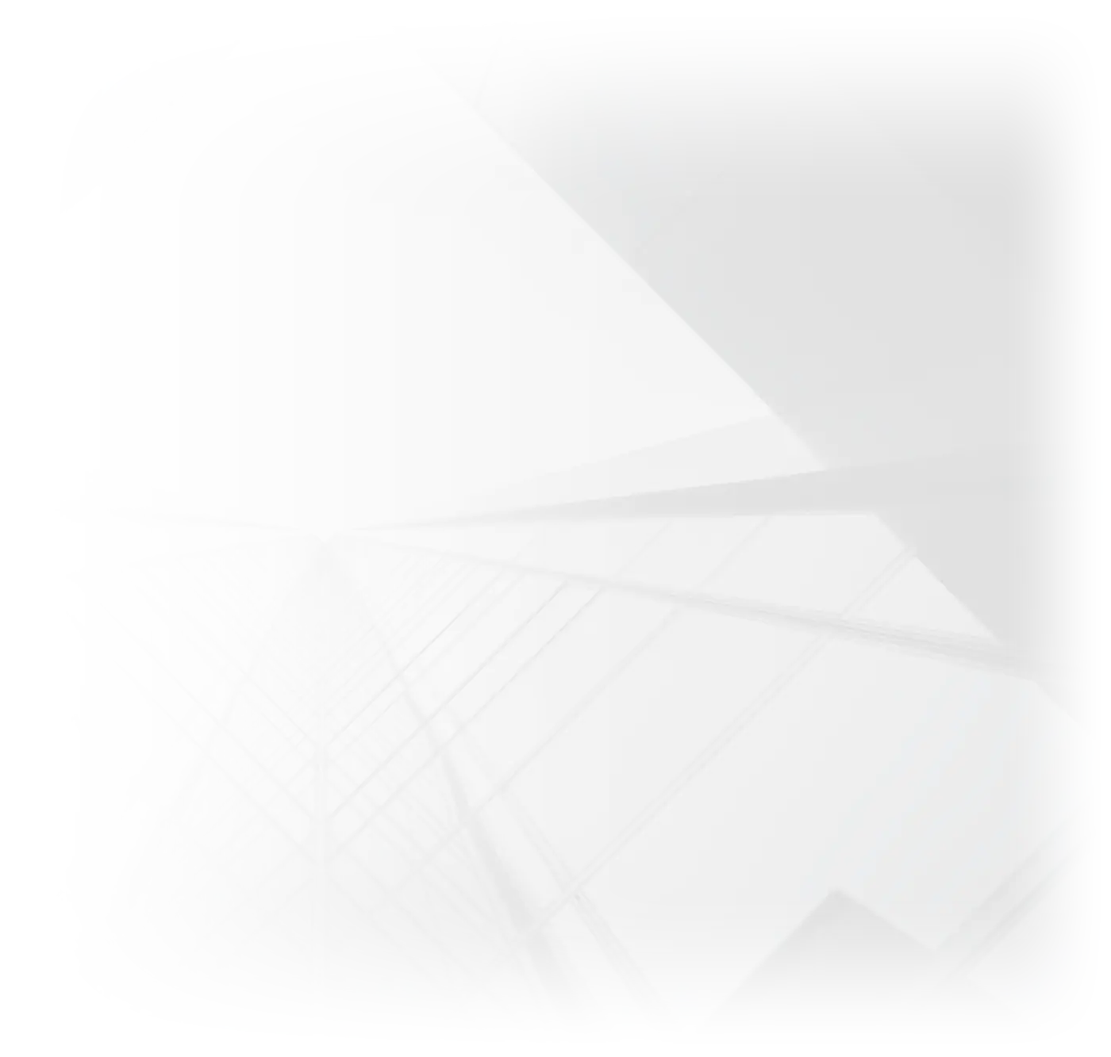
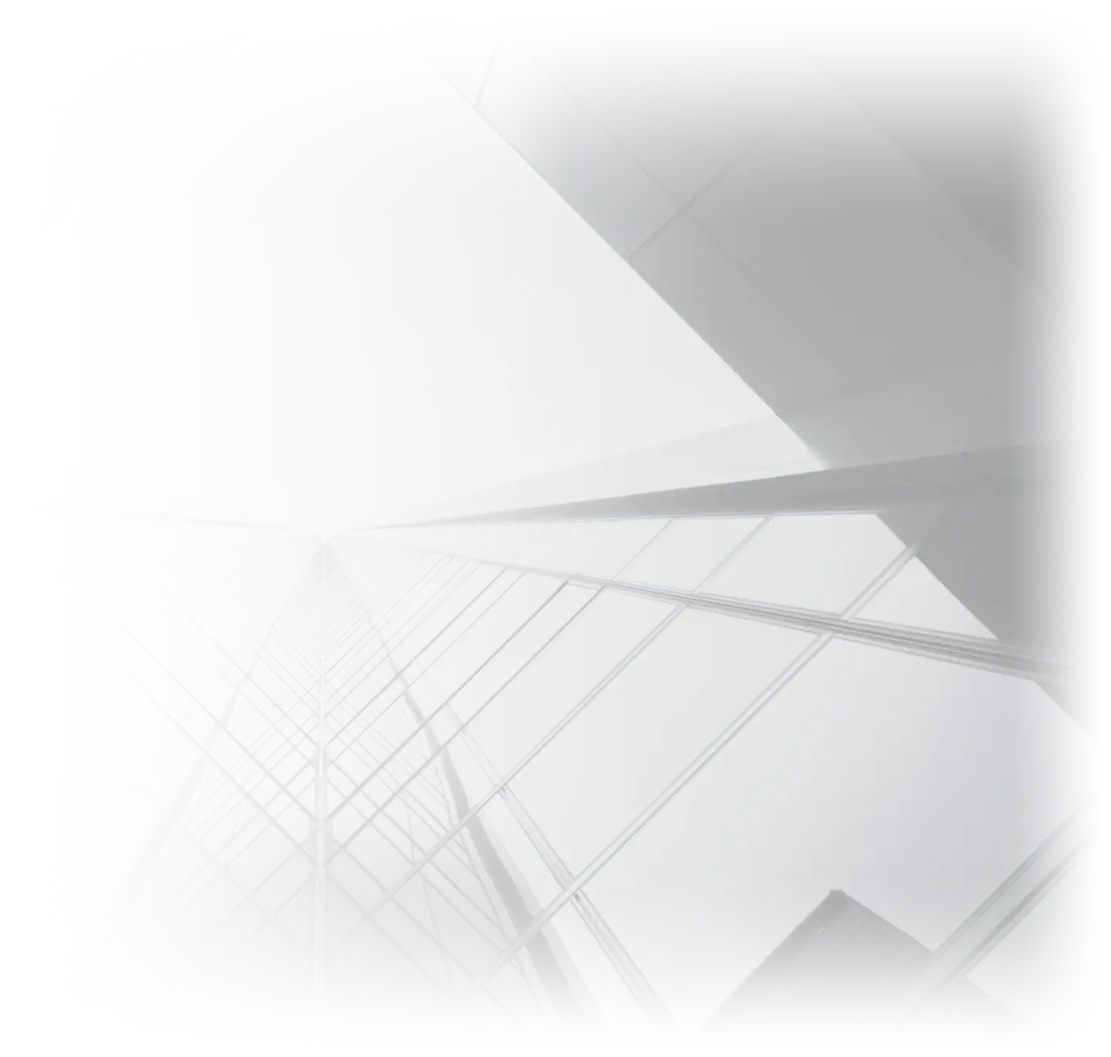
D40 を全体へ: トップは D40（一文を縦の中ほど、見え方40の写真、名刺をライト・ペーパーでなじませる）。入口の帯4つと入口カードを、白い字の全面写真から、地の色＋文字が主役＋右に薄い写真（見え方28、モード別）に。読み物は写真なし。グラフの写真をやめる

diff --git a/index.html b/index.html
@@ -51,7 +51,7 @@
 <p class="mc-hello">はじめまして。</p>
 </div></div></div></section></div>
 <section class="sec gut" data-io><div class="sh rv"><h2><span class="en" lang="en">What I Simplify</span><span class="ja">シンプルにするもの</span></h2></div><p class="simple-l rv"><span class="nb">減らすのは、</span><span class="nb">作業だけでは</span><span class="nb">ありません。</span></p><ol class="simple3"><li class="rv" style="--i:0"><b>判断</b><p class="h"><span class="nb">何から手をつけるか、</span><span class="nb">迷う時間を</span><span class="nb">減らします。</span></p><p class="f"><span class="nb">課題を優先度つきで整理し、</span><span class="nb">対応方針まで</span><span class="nb">文書でお示しします。</span></p></li><li class="rv" style="--i:1"><b>説明</b><p class="h"><span class="nb">監査法人や</span><span class="nb">取締役会への説明の</span><span class="nb">手間を、軽くします。</span></p><p class="f"><span class="nb">判断の根拠を残し、</span><span class="nb">そのまま説明できる形に</span><span class="nb">整えます。</span></p></li><li class="rv" style="--i:2"><b>不安</b><p class="h"><span class="nb">先が見えない</span><span class="nb">不安を、</span><span class="nb">減らします。</span></p><p class="f"><span class="nb">範囲・費用・稼働日数は</span><span class="nb">着手前にお示しします。</span><span class="nb">最初から最後まで、</span><span class="nb">代表の佐藤が担当します。</span></p></li></ol></section>
-<section class="sec gut" data-io><div class="sh rv"><h2><span class="en" lang="en">Where I Can Help</span><span class="ja">ご相談いただけること</span></h2></div><div class="duo2"><a class="rv" style="--i:0" href="auditor.html"><figure><img src="img/h-board.jpg" width="1400" height="788" alt="誰もいない役員会議室" loading="lazy" decoding="async"></figure><span class="en" lang="en">Outside Auditor</span><span class="ja">社外監査役</span><span class="tg">上場企業・上場準備企業<span class="vh">。</span></span><span class="ds">独立した立場から、会計と内部統制の経験を、取締役会・監査役会で。</span><i class="ring" aria-hidden="true"></i></a><a class="rv" style="--i:1" href="services.html"><figure><img src="img/h-work.jpg" width="1400" height="788" alt="手描きのグラフと、ペン" loading="lazy" decoding="async"></figure><span class="en" lang="en">Services</span><span class="ja">実務支援</span><span class="tg">決算支援／内部統制・J-SOX／IPO準備支援／不正調査<span class="vh">。</span></span><span class="ds">複雑な業務を整理し、実務で機能する仕組みへ。</span><i class="ring" aria-hidden="true"></i></a></div></section>
+<section class="sec gut" data-io><div class="sh rv"><h2><span class="en" lang="en">Where I Can Help</span><span class="ja">ご相談いただけること</span></h2></div><div class="duo2"><a class="rv" style="--i:0" href="auditor.html"><figure class="dph ph-auditor" aria-hidden="true"></figure><span class="en" lang="en">Outside Auditor</span><span class="ja">社外監査役</span><span class="tg">上場企業・上場準備企業<span class="vh">。</span></span><span class="ds">独立した立場から、会計と内部統制の経験を、取締役会・監査役会で。</span><i class="ring" aria-hidden="true"></i></a><a class="rv" style="--i:1" href="services.html"><figure class="dph ph-services" aria-hidden="true"></figure><span class="en" lang="en">Services</span><span class="ja">実務支援</span><span class="tg">決算支援／内部統制・J-SOX／IPO準備支援／不正調査<span class="vh">。</span></span><span class="ds">複雑な業務を整理し、実務で機能する仕組みへ。</span><i class="ring" aria-hidden="true"></i></a></div></section>
 <section class="sec gut" data-io><div class="sh rv"><h2><span class="en" lang="en">Process</span><span class="ja">ご相談から着手まで</span></h2></div><ol class="flow"><li class="rv" style="--i:0"><b lang="en">01</b><h3>初回相談</h3><p class="pr">無料</p><p>30〜60分・オンライン。現状をお伺いします。</p></li><li class="rv" style="--i:1"><b lang="en">02</b><h3>診断パッケージ</h3><p class="pr">10万円〜<small>（税別・目安）</small></p><p>優先度をつけた課題の一覧と対応方針を文書で提示し、報告会（1時間）で説明します。</p></li><li class="rv" style="--i:2"><b lang="en">03</b><h3>継続支援</h3><p class="pr">10万円〜<small>／人日（税別・目安）</small></p><p>診断結果をもとに、必要な範囲だけを設計します。</p></li></ol><div class="flow-nt rv"><p>診断のみのご依頼も承ります。継続支援に進む場合、診断料は初月報酬に充当します。</p><p class="nt">診断パッケージの対象は、内部統制・J-SOXとIPO準備支援です。会社の規模や論点の数によって範囲が変わるため、範囲と費用は着手前にお示しします。そのほかの業務は、内容に応じて、初回相談の後にお見積りいたします。いずれも現時点の目安です。</p><div class="btns"><a class="ln" href="services.html#fees">費用の一覧<i class="go" aria-hidden="true"></i></a><a class="ln" href="services.html#approach">仕事の進め方と責任の範囲<i class="go" aria-hidden="true"></i></a><a class="ln" href="about.html#profile">担当する代表のプロフィール<i class="go" aria-hidden="true"></i></a></div></div></section>
 <section class="sec gut top-news" data-io><div class="sh rv"><h2><span class="en" lang="en">Journal</span><span class="ja">読み物</span></h2><a class="more" href="journal.html">読み物の一覧<i class="go" aria-hidden="true"></i></a></div><div class="news nt0"><a class="rv" style="--i:0" href="jsox-guide.html"><span><b class="ph">J-SOX対応の進め方</b><small>はじめてJ-SOX（内部統制報告制度）に取り組む会社へ。J-SOXとは何か、誰が何をするのか、進め方（現状診断、3点セットの文書化、評価・テスト、運用の改善、監査法人対応）、2024年4月からの改訂、つまずきやすいところと進めるうえでの工夫。監査法人でJ-SOX評価を担当した京都の公認会計士が、順を追って解説します。</small></span><i class="go" aria-hidden="true"></i></a><a class="rv" style="--i:1" href="jsox-outsourcing.html"><span><b class="ph">内部統制の支援を、外に頼むとき</b><small>内部統制（J-SOX）の支援を外に頼むか迷っている会社へ。外に頼めることと会社に残ること、頼む前に決めておくこと、頼み方と費用の目安、支援が終わったあとに社内に残すもの。京都の公認会計士が、依頼する側の目線で整理しました。</small></span><i class="go" aria-hidden="true"></i></a><a class="rv" style="--i:2" href="ipo-audit-prep.html"><span><b class="ph">上場準備で、監査を受ける前に</b><small>上場（IPO）を考え始めた会社へ。上場準備の会計監査とショートレビュー、監査を受ける前に確かめておくこと、上場審査から逆算した工程、早い時期にしておくこと。日本公認会計士協会のガイドブックが挙げる指摘の例とあわせて、京都の公認会計士が紹介します。</small></span><i class="go" aria-hidden="true"></i></a><a class="rv" style="--i:3" href="ipo-internal-control.html"><span><b class="ph">上場準備の内部統制は、どこから始めるか</b><small>上場準備の内部統制は、どこから手を付け、いつまでに何を終えればよいのか。京都の公認会計士・税理士 佐藤健司が、段取りの考え方を問いと答えの形で解説します。</small></span><i class="go" aria-hidden="true"></i></a></div></section>
 <div class="gut"><section class="cta" data-io><div><p class="state rv"><span class="nb">まずは</span><span class="nb">ご相談ください。</span></p><p class="sm2 rv" style="--i:1">「一度、話を聞いてほしい」という一文で構いません。</p><ul class="trust rv" style="--i:2"><li>初回 30〜60分・オンライン・無料</li><li>通常、3営業日以内にご返信</li><li>最初から最後まで、代表が担当</li></ul></div><a class="ob rv" style="--i:3" href="contact.html">お問い合わせ</a></section></div>

diff --git a/services.html b/services.html
@@ -40,7 +40,7 @@
 <a class="sbar" href="contact.html" aria-label="お問い合わせ（初回 30〜60分・オンライン・無料）"><b>お問い合わせ</b><span>初回 30〜60分・オンライン・無料</span><i class="go" aria-hidden="true"></i></a>
 <main id="main" tabindex="-1">
 <div class="gut"><nav class="crumb" aria-label="いまの位置"><ol><li><a href="./">ホーム</a></li><li><span aria-current="page">実務支援</span></li></ol></nav></div>
-<div class="gut"><figure class="kv kvh" data-io><img src="img/h-work.jpg" width="1400" height="788" alt="手描きのグラフと、ペン" decoding="async" fetchpriority="high"><figcaption class="cap"><h1 lang="en"><span class="l"><span>Services</span></span><span class="vh" lang="ja">（実務支援）</span></h1><span class="sub rv">実務支援</span></figcaption></figure></div>
+<div class="gut"><figure class="kv kvh ph-services" data-io><figcaption class="cap"><h1 lang="en"><span class="l"><span>Services</span></span><span class="vh" lang="ja">（実務支援）</span></h1><span class="sub rv">実務支援</span></figcaption></figure></div>
 <section class="sec gut" data-io><div class="two"><div class="stk"><p class="state rv"><span class="nb">複雑な業務を</span><span class="nb">整理し、</span><span class="nb">実務で機能する</span><span class="nb">仕組みへ。</span></p></div><div><p class="lead rv">会計・監査の専門性とテクノロジーを組み合わせ、内部統制、経理業務、監査対応の課題を、設計から運用まで一貫して支援します。作業を減らすだけでなく、何を優先し、どう説明するかに迷わない状態をつくります。</p></div></div></section>
 <section class="sec gut" data-io><h2 class="jh2 rv"><span class="jt">業務の地図</span><span class="je" lang="en">Service Map</span></h2><figure class="smap" data-io role="group" aria-label="業務の地図。中心に代表の佐藤健司、内側に主な支援四つ、外側にそのほかの支援八つ"><svg class="full" viewBox="-170 -10 1140 820"><circle class="orb o1" cx="400" cy="400" r="190" pathLength="1"/><circle class="orb o2" cx="400" cy="400" r="330" pathLength="1"/><a href="closing-improvement.html" class="nd core" style="--i:0"><circle cx="265.6" cy="265.6" r="74"/><text text-anchor="middle"><tspan x="265.6" y="273.6">決算支援</tspan></text></a><a href="jsox-ipo.html" class="nd core" style="--i:1"><circle cx="534.4" cy="265.6" r="74"/><text text-anchor="middle"><tspan x="534.4" y="259.6">内部統制・</tspan><tspan x="534.4" y="289.6">J-SOX</tspan></text></a><a href="jsox-ipo.html" class="nd core" style="--i:2"><circle cx="534.4" cy="534.4" r="74"/><text text-anchor="middle"><tspan x="534.4" y="542.4">IPO準備支援</tspan></text></a><a href="fraud-investigation.html" class="nd core" style="--i:3"><circle cx="265.6" cy="534.4" r="74"/><text text-anchor="middle"><tspan x="265.6" y="528.4">不正調査・</tspan><tspan x="265.6" y="558.4">不正対応</tspan></text></a><a href="contact.html#ask-lease" class="nd sub" style="--i:4"><circle cx="273.7" cy="95.1" r="7"/><text x="257.6" y="64.3" text-anchor="end">新リース会計基準</text></a><a href="contact.html#ask-dd" class="nd sub" style="--i:5"><circle cx="526.3" cy="95.1" r="7"/><text x="542.4" y="64.3" text-anchor="start">M&Aの財務調査</text></a><a href="ai.html" class="nd sub" style="--i:6"><circle cx="704.9" cy="273.7" r="7"/><text x="743.7" y="265.6" text-anchor="start">会計システム・AI</text></a><a href="contact.html#ask-cost" class="nd sub" style="--i:7"><circle cx="704.9" cy="526.3" r="7"/><text x="743.7" y="550.4" text-anchor="start">原価計算・管理会計</text></a><a href="internal-audit.html" class="nd sub" style="--i:8"><circle cx="526.3" cy="704.9" r="7"/><text x="542.4" y="751.7" text-anchor="start">内部監査</text></a><a href="contact.html#ask-rules" class="nd sub" style="--i:9"><circle cx="273.7" cy="704.9" r="7"/><text x="257.6" y="751.7" text-anchor="end">社内規程</text></a><a href="outside-cfo.html" class="nd sub" style="--i:10"><circle cx="95.1" cy="526.3" r="7"/><text x="56.3" y="550.4" text-anchor="end">社外CFO</text></a><a href="aup.html" class="nd sub" style="--i:11"><circle cx="95.1" cy="273.7" r="7"/><text x="56.3" y="265.6" text-anchor="end">AUP</text></a></svg><svg class="lite" viewBox="170 170 460 460" aria-hidden="true"><circle class="orb o1" cx="400" cy="400" r="190" pathLength="1"/><a href="closing-improvement.html" class="nd core" style="--i:0"><circle cx="265.6" cy="265.6" r="74"/><text text-anchor="middle"><tspan x="265.6" y="273.6">決算支援</tspan></text></a><a href="jsox-ipo.html" class="nd core" style="--i:1"><circle cx="534.4" cy="265.6" r="74"/><text text-anchor="middle"><tspan x="534.4" y="259.6">内部統制・</tspan><tspan x="534.4" y="289.6">J-SOX</tspan></text></a><a href="jsox-ipo.html" class="nd core" style="--i:2"><circle cx="534.4" cy="534.4" r="74"/><text text-anchor="middle"><tspan x="534.4" y="542.4">IPO準備支援</tspan></text></a><a href="fraud-investigation.html" class="nd core" style="--i:3"><circle cx="265.6" cy="534.4" r="74"/><text text-anchor="middle"><tspan x="265.6" y="528.4">不正調査・</tspan><tspan x="265.6" y="558.4">不正対応</tspan></text></a></svg><div class="ctr" aria-hidden="true"><span class="km"><span class="n" lang="en">Kenji Sato</span><span class="j">佐藤健司公認会計士事務所</span></span></div></figure></section>
 <section class="sec gut" data-io><h2 class="jh2 rv"><span class="jt">主な支援</span><span class="je" lang="en">Core Services</span></h2><p class="nt rv" style="margin-bottom:40px">中心にあるのは、会計・監査・内部統制の専門的な判断です。決算、上場準備、不正への対応は、その応用です。</p><div class="pans four"><a class="pan rv" style="--i:0" href="closing-improvement.html"><i>01</i><b class="ph">決算支援</b><p class="iss">Excel作業の属人化、転記ミス、資料回収の遅れ。</p><p class="goal">正確さと効率を両立した業務運営。</p><span class="who">経理・管理部門</span><i class="go" aria-hidden="true"></i></a><a class="pan rv" style="--i:1" href="jsox-ipo.html"><i>02</i><b class="ph">内部統制・J-SOX</b><p class="iss">文書と実務が一致しない。運用の負荷が高い。</p><p class="goal">実務に適合し、継続して運用できる内部統制。</p><span class="who">上場企業、上場準備企業</span><i class="go" aria-hidden="true"></i></a><a class="pan rv" style="--i:2" href="jsox-ipo.html"><i>03</i><b class="ph">IPO準備支援</b><p class="iss">上場準備のタスクが多すぎて、優先順位がつけられない。</p><p class="goal">現在の人員を起点にした、開示に耐える体制。</p><span class="who">上場を検討・準備している会社</span><i class="go" aria-hidden="true"></i></a><a class="pan rv" style="--i:3" href="fraud-investigation.html"><i>04</i><b class="ph">不正調査・不正対応</b><p class="iss">不正が見つかり、ほかに同じ問題がないかの点検と、再発防止を同時に求められている。</p><p class="goal">原因をふさぎ、外部に説明できる状態。</p><span class="who">不正や会計上の疑義が見つかった会社</span><i class="go" aria-hidden="true"></i></a></div></section>

diff --git a/about.html b/about.html
@@ -40,7 +40,7 @@
 <a class="sbar" href="contact.html" aria-label="お問い合わせ（初回 30〜60分・オンライン・無料）"><b>お問い合わせ</b><span>初回 30〜60分・オンライン・無料</span><i class="go" aria-hidden="true"></i></a>
 <main id="main" tabindex="-1">
 <div class="gut"><nav class="crumb" aria-label="いまの位置"><ol><li><a href="./">ホーム</a></li><li><span aria-current="page">事務所について</span></li></ol></nav></div>
-<div class="gut"><figure class="kv kvh" data-io><img src="img/h-structure.jpg" width="1400" height="788" alt="すべての線が一点に集まる高層建築" decoding="async" fetchpriority="high"><figcaption class="cap"><h1 lang="en"><span class="l"><span>About</span></span><span class="vh" lang="ja">（事務所について）</span></h1><span class="sub rv">事務所について</span></figcaption></figure></div>
+<div class="gut"><figure class="kv kvh ph-about" data-io><figcaption class="cap"><h1 lang="en"><span class="l"><span>About</span></span><span class="vh" lang="ja">（事務所について）</span></h1><span class="sub rv">事務所について</span></figcaption></figure></div>
 <div class="gut"><nav class="subnav rv" aria-label="このページの中"><a href="#message">代表あいさつ</a><a href="#principles">原則</a><a href="#profile">プロフィール</a><a href="#office">事務所概要</a><a href="#terms">お取引にあたって</a></nav></div>
 <section class="sec gut" data-io><h2 class="jh2 rv" id="message"><span class="jt">代表あいさつ</span><span class="je" lang="en">Message</span></h2><div class="two"><div class="stk"><p class="state q rv"><span class="nb">バックオフィスは、</span><span class="nb">単なる</span><span class="nb">コストセンターでは</span><span class="nb">ありません。</span><span class="nb">高く跳ぶための</span><span class="nb">セーフティーネット</span><span class="nb">です。</span></p></div><div class="letter rv"><p>大きな監査法人に、約9年在籍しました。学んだことは、数多くあります。一方で、組織が大きいからこそ、もっとできるはずだというもどかしさも感じていました。自分の判断で動けば、もっと早く、もっとお客様のために、本当に価値のある仕事ができる。そう考えたことが、独立のいちばん大きな理由です。</p><p>お役に立ちたいのは、従業員のことを大切に考え、管理体制に悩んでいる会社、あるいは、きちんと整えたいと考えている会社です。管理部門という土台があるからこそ、会社は挑戦できます。そのことを理解されている会社と、ご一緒したいと考えています。</p><p>京都は、歴史の重みと、学生の街としての活気が同居する街です。伝統ある企業も、スタートアップもあります。この街で、お客様の困りごとを本当の意味で解決し、心から笑顔で向き合える関係を築ける事務所でありたいと考えています。</p><p>お悩みがあれば、どうぞご相談ください。困りごとが「助かった」に変わる瞬間が、この仕事でいちばんの喜びです。</p><p class="sg2"><b>佐藤 健司</b></p></div></div><div class="two love"><div class="stk"><h3 class="state q rv"><span class="nb">より良くすることが、</span><span class="nb">好きです。</span></h3></div><div class="letter rv"><p>仕組みを考え、形にして、使ってみる。そこで見えてきた課題を、また見直す。私は、この過程そのものが好きです。</p><p>一度できたものでも、もっと分かりやすく、もっと使いやすくできるのではないか。そう考えている時間が、純粋に楽しいのです。数字も、業務も、内部統制の仕組みも、向き合い方は同じです。考えて、試して、直していくと、形は少しずつシンプルになっていきます。</p><p>ただ、改善を重ねること自体が目的ではありません。使う人が迷わず動けること。余計な負担が減り、本来の仕事に集中できること。そこまで考えて、仕組みをつくりたいと思っています。</p></div></div></section>
 <section class="sec gut" data-io><h2 class="jh2 rv" id="principles"><span class="jt">原則</span><span class="je" lang="en">Principles</span></h2><div class="venn rv" role="img" aria-label="Key Structure（構造を見つける）と Keep it Simple（足さない）の二つが重なるところに、金の点"><svg viewBox="0 0 760 440" aria-hidden="true"><defs><radialGradient id="ga" cx="35%" cy="35%" r="75%"><stop offset="0" style="stop-color:var(--acc);stop-opacity:.95"/><stop offset="1" style="stop-color:var(--acc);stop-opacity:.25"/></radialGradient><radialGradient id="gb" cx="65%" cy="35%" r="75%"><stop offset="0" style="stop-color:var(--gold);stop-opacity:.85"/><stop offset="1" style="stop-color:var(--acc);stop-opacity:.2"/></radialGradient></defs><circle class="c" cx="270" cy="220" r="200" fill="url(#ga)"/><circle class="c" cx="490" cy="220" r="200" fill="url(#gb)"/><rect class="tgv" x="128" y="138" width="124" height="28" rx="4"/><text class="tt" x="190" y="157" text-anchor="middle">構造を見つける</text><text class="en" x="190" y="206" text-anchor="middle">Key</text><text class="en" x="190" y="246" text-anchor="middle">Structure</text><rect class="tgv" x="508" y="138" width="124" height="28" rx="4"/><text class="tt" x="570" y="157" text-anchor="middle">足さない</text><text class="en" x="570" y="206" text-anchor="middle">Keep it</text><text class="en" x="570" y="246" text-anchor="middle">Simple</text><circle class="k" cx="380" cy="220" r="7"/></svg></div><div class="creed"><div class="hand" data-io data-seed="7"><p class="hh">構造を見つける</p><p class="hb"><span>散らかった数字・業務・ルールを、判断できる構造に組み直す。</span><span>タスクの列挙ではなく、優先順位と依存関係まで落とす。</span><span>評価範囲の根拠から、監査法人に説明できる状態にする。</span></p></div><div class="hand" data-io data-seed="23"><p class="hh">足さない</p><p class="hb"><span>「文書のための文書」は作らない。</span><span>増員ありきの絵は描かない。</span><span>必要のない支援は、勧めない。</span></p></div></div></section>

diff --git a/site.css b/site.css
@@ -831,7 +831,7 @@ html { scrollbar-width: thin; scrollbar-color: var(--line) var(--bg); }
 .km .n { letter-spacing: -.012em; }
 .top .km .n { letter-spacing: 0; }
 .ft .lf .km .n { letter-spacing: -.02em; }
-/* 冒頭の背景(2026-11-21 ご本人の追加指示「背景写真を活用したエディトリアルデザイン」。A 写真なし・B ごく薄い・C 少し印象的 を比べて B を採用)
+/* 冒頭の背景(2026-11-21 ご本人の追加指示で B ごく薄い を採用 → 同日、ご本人の最終指示で D40 に。画像は D40 の見え方40、作り方は 01_作り方の元/冒頭の背景写真を作る_D40.py)
    写真: Unsplash「structure」Verne Ho(https://unsplash.com/photos/0LAJfSNa-xQ、Unsplash ライセンス=商用可・表示不要)。
    モードごとに、地の色と合成した画像を使う(作り方は 01_作り方の元/冒頭の背景写真を作る.py)。ダークは明るい所だけが浮き、ライト・ペーパーは暗い所だけが薄く刷られる。
    縁の透明なぼかしは画像に焼き込み済みなので、CSS は置くだけ。文字の後ろは無地(地の色)のまま。写真は飾りなので、代わりの文は要らない */
@@ -843,10 +843,44 @@ html { scrollbar-width: thin; scrollbar-color: var(--line) var(--bg); }
 .hero .ob { border-color: var(--fg); color: var(--fg); }
 .hero .ob::before { background: var(--fg); }
 .hero .ob:hover { color: var(--bg); }
-.hero.hero::before { inset: 0 0 0 auto; width: 68%; background: var(--kp) right center / auto 100% no-repeat; }
-@media (max-width: 639px) { .hero.hero::before { inset: auto 0 0 0; width: 100%; height: 62%; background: var(--kp-sp) right bottom / auto 100% no-repeat; opacity: .75; } }
+.hero.hero::before { inset: 0 0 0 auto; width: 70%; background: var(--kp) right center / auto 100% no-repeat; }
+@media (max-width: 639px) { .hero.hero::before { inset: auto 0 0 0; width: 100%; height: 60%; background: var(--kp-sp) right bottom / auto 100% no-repeat; opacity: .6; } }
 /* 事務所について「より良くすることが、好きです。」(2026-11-21): 代表あいさつと同じ組み(左に大きな字、右に本文)。上に一段の間をとる */
 .two.love { margin-top: var(--sec); }
 .two.love h3.state { padding-bottom: 0; }
+/* ===== D40(2026-11-21 ご本人「D40 のデザイン思想を全体へ」) =====
+   トップ: 文字の組みは比較の C 案(一文を縦の中ほど、幅の11%)。名刺は残し、ライト・ペーパーで紙・ふち・影を地に寄せる */
+.hero-t { display: flex; flex-direction: column; justify-content: center; }
+.hero .G.ks { font-size: clamp(48px, 11vw, 168px); margin-top: 36px; }
+:root[data-tone="light"] .hero .mc-card { background: linear-gradient(#fdfdfc, #f6f6f4); border-color: rgba(33, 33, 33, .12); }
+:root[data-tone="paper"] .hero .mc-card { background: linear-gradient(#fbf9f4, #f3efe6); border-color: rgba(60, 45, 20, .14); }
+:root[data-tone="light"] .hero .mc-shadow { background: rgba(20, 20, 20, .18); }
+:root[data-tone="paper"] .hero .mc-shadow { background: rgba(70, 50, 20, .2); }
+@media (max-width: 767px) { .hero .G.ks { font-size: 13vw; margin-top: 28px; } .hero-t { justify-content: flex-start; } }
+
+/* 薄い写真(入口の帯・入口カード共通)。モード別の画像を変数で切り替える。作り方は 01_作り方の元/薄い写真を作る.py。
+   写真はすべて Unsplash(商用可・表示不要)。飾りなので alt は付けない */
+.ph-about { --ph: url(img/ph-about-dark-pc.webp); --ph-sp: url(img/ph-about-dark-sp.webp); }
+.ph-auditor { --ph: url(img/ph-auditor-dark-pc.webp); --ph-sp: url(img/ph-auditor-dark-sp.webp); }
+.ph-services { --ph: url(img/ph-services-dark-pc.webp); --ph-sp: url(img/ph-services-dark-sp.webp); }
+:root[data-tone="light"] .ph-about { --ph: url(img/ph-about-light-pc.webp); --ph-sp: url(img/ph-about-light-sp.webp); }
+:root[data-tone="light"] .ph-auditor { --ph: url(img/ph-auditor-light-pc.webp); --ph-sp: url(img/ph-auditor-light-sp.webp); }
+:root[data-tone="light"] .ph-services { --ph: url(img/ph-services-light-pc.webp); --ph-sp: url(img/ph-services-light-sp.webp); }
+:root[data-tone="paper"] .ph-about { --ph: url(img/ph-about-paper-pc.webp); --ph-sp: url(img/ph-about-paper-sp.webp); }
+:root[data-tone="paper"] .ph-auditor { --ph: url(img/ph-auditor-paper-pc.webp); --ph-sp: url(img/ph-auditor-paper-sp.webp); }
+:root[data-tone="paper"] .ph-services { --ph: url(img/ph-services-paper-pc.webp); --ph-sp: url(img/ph-services-paper-sp.webp); }
+
+/* 入口の帯: 写真の上の白い字をやめ、地はモードの地の色、文字はモードの文字色。写真は右の60%に薄く(見え方28) */
+.kvh { color: var(--fg); background: var(--bg); }
+.kvh::after { display: none; }
+.kvh::before { content: ""; position: absolute; inset: 0 0 0 auto; width: 60%; pointer-events: none; background: var(--ph, none) right center / contain no-repeat; }   /* contain: 溶かした縁を切り落とさない */
+.kvh h1 { font-weight: 500; letter-spacing: -.045em; }
+.kvh .sub { color: var(--fg2); }
+:root[data-tone="paper"] .kvh::before { filter: none; }
+@media (max-width: 639px) { .kvh::before { inset: 0 0 auto 0; width: 100%; height: 72%; background: var(--ph-sp, none) right top / contain no-repeat; opacity: .8; } }
+
+/* 入口カード(トップ): 帯と同じ薄い写真。カードの地はページの地、ふちは細い線 */
+.duo2 figure.dph { background: var(--ph, none) center / cover no-repeat, var(--bg); box-shadow: inset 0 0 0 1px var(--line2); }
+.duo2 .en { font-weight: 500; letter-spacing: -.045em; }
 
 .vh { position: absolute !important; width: 1px; height: 1px; overflow: hidden; clip: rect(0 0 0 0); white-space: nowrap; }

diff --git a/auditor.html b/auditor.html
@@ -40,7 +40,7 @@
 <a class="sbar" href="contact.html" aria-label="お問い合わせ（初回 30〜60分・オンライン・無料）"><b>お問い合わせ</b><span>初回 30〜60分・オンライン・無料</span><i class="go" aria-hidden="true"></i></a>
 <main id="main" tabindex="-1">
 <div class="gut"><nav class="crumb" aria-label="いまの位置"><ol><li><a href="./">ホーム</a></li><li><span aria-current="page">社外監査役</span></li></ol></nav></div>
-<div class="gut"><figure class="kv kvh" data-io><img src="img/h-board.jpg" width="1400" height="788" alt="誰もいない役員会議室" decoding="async" fetchpriority="high"><figcaption class="cap"><h1 lang="en"><span class="l"><span>Outside Auditor</span></span><span class="vh" lang="ja">（社外監査役）</span></h1><span class="sub rv">社外監査役</span></figcaption></figure></div>
+<div class="gut"><figure class="kv kvh ph-auditor" data-io><figcaption class="cap"><h1 lang="en"><span class="l"><span>Outside Auditor</span></span><span class="vh" lang="ja">（社外監査役）</span></h1><span class="sub rv">社外監査役</span></figcaption></figure></div>
 <section class="sec gut" data-io><div class="two"><div class="stk"><p class="state rv"><span class="nb">会計と内部統制の</span><span class="nb">経験を、</span><span class="nb">取締役会・</span><span class="nb">監査役会で。</span></p></div><div><p class="lead rv">上場企業・上場準備企業の社外監査役について、就任のご相談を承ります。監査法人で培った会計・監査・内部統制の経験をもとに関わります。役員としての関与は、社外CFOや実務支援とは別のものとしてご相談いただけます。</p><h2 class="vh">社外監査役として想定する会社と関与</h2><div class="rows3" style="margin-top:48px"><div class="rv" style="--i:0"><h3 class="ph">想定する会社</h3><p>監査役会を置く上場企業で、会計・内部統制に通じた社外監査役を求めている会社。上場準備で、監査役会の構成を整える会社。</p></div><div class="rv" style="--i:1"><h3 class="ph">相談できる関与</h3><p>取締役の職務執行の監査。会計監査人（監査法人）との連携、内部統制の整備・運用の確認、取締役会・監査役会での発言。</p></div><div class="rv" style="--i:2"><h3 class="ph">経験が役立つ点</h3><p>監査法人で上場企業の監査の統括主査を務め、監査法人側の論点と判断の根拠を知っています。内部統制（J-SOX）の評価も、統括主査として担当しました。会計監査人との対話を、専門家として担えます。</p></div></div><div class="btns rv"><a class="ob" href="contact.html#ask-auditor">就任のご相談</a><a class="ln" href="candidate.html">社外監査役候補者プロフィール<span style="white-space:nowrap">（PDF保存可）</span><i class="go" aria-hidden="true"></i></a><a class="ln" href="outside-auditor.html">社外監査役の詳細<i class="go" aria-hidden="true"></i></a></div><p class="nt rv">就任の可否は、会社との関係や期待される役割を確認したうえで判断します。会社法の要件、独立性、利益相反、責任限定契約・保険など、就任前に確認する事項は<a class="lk" href="candidate.html#check">社外監査役候補者プロフィール</a>と<a class="lk" href="contact.html#faq">FAQ</a>にまとめています。</p></div></div></section>
 <section class="sec gut" data-io><h2 class="jh2 rv"><span class="jt">関わり方</span><span class="je" lang="en">How I Engage</span></h2><div class="pans"><div class="pan rv" style="--i:0"><i>01</i><b class="ph">懸念は、<wbr>はっきり<wbr>伝える</b><p>疑問に感じたことは、曖昧にせず、発言で示します。リスクが大きいと判断したことは、粘り強くお伝えします。</p></div><div class="pan rv" style="--i:1"><i>02</i><b class="ph">強みを<wbr>伸ばし、<wbr>弱みは<wbr>仕組みで<wbr>補う</b><p>人にも組織にも、強みと弱みがあります。強みは伸ばし、弱みは仕組みで最小限に抑える。そのうえで、会社が良い方向へ進むよう働きかけます。</p></div><div class="pan rv" style="--i:2"><i>03</i><b class="ph">重要な<wbr>局面で、<wbr>安易に<wbr>同調しない</b><p>本当に重要な局面で、安易に同調することはしません。必要だと考えることは、伝え方を工夫しながら、粘り強くお伝えします。</p></div></div></section>
 <section class="sec gut" data-io><h2 class="jh2 rv"><span class="jt">担当</span><span class="je" lang="en">Profile</span></h2><div class="two"><div class="stk"></div><div class="bd2 rv"><div class="who"><img src="img/profile.jpg" width="480" height="640" alt="佐藤 健司（公認会計士・京都）" loading="lazy"><p><b>佐藤 健司</b><span>さとう けんじ</span></p></div><div class="pp"><p>公認会計士・税理士。PwC Japan有限責任監査法人にて約9年、製造業、サービス業、小売業、商社、IT企業、信用金庫等、多様な業種の監査経験。グロース市場からプライム市場までの上場企業監査とJ-SOX内部統制評価を現場責任者（統括主査）として担当。IPO準備企業／上場直後の企業の現場責任者も多数経験。佐藤健司公認会計士事務所 代表。京都市。</p></div><div class="btns"><a class="ln" href="about.html#message">代表あいさつ<i class="go" aria-hidden="true"></i></a><a class="ln" href="about.html#profile">プロフィール<i class="go" aria-hidden="true"></i></a></div></div></div></section>

diff --git a/journal.html b/journal.html
@@ -40,7 +40,7 @@
 <a class="sbar" href="contact.html" aria-label="お問い合わせ（初回 30〜60分・オンライン・無料）"><b>お問い合わせ</b><span>初回 30〜60分・オンライン・無料</span><i class="go" aria-hidden="true"></i></a>
 <main id="main" tabindex="-1">
 <div class="gut"><nav class="crumb" aria-label="いまの位置"><ol><li><a href="./">ホーム</a></li><li><span aria-current="page">読み物</span></li></ol></nav></div>
-<div class="gut"><figure class="kv kvh" data-io><img src="img/h-simple.jpg" width="1400" height="788" alt="空に一本だけ立つ塔" decoding="async" fetchpriority="high"><figcaption class="cap"><h1 lang="en"><span class="l"><span>Journal</span></span><span class="vh" lang="ja">（読み物）</span></h1><span class="sub rv">読み物</span></figcaption></figure></div>
+<div class="gut"><figure class="kv kvh" data-io><figcaption class="cap"><h1 lang="en"><span class="l"><span>Journal</span></span><span class="vh" lang="ja">（読み物）</span></h1><span class="sub rv">読み物</span></figcaption></figure></div>
 <section class="sec gut" data-io><div class="news nt0"><a class="rv" style="--i:0" href="jsox-guide.html"><span><b class="ph">J-SOX対応の進め方</b><small>はじめてJ-SOX（内部統制報告制度）に取り組む会社へ。J-SOXとは何か、誰が何をするのか、進め方（現状診断、3点セットの文書化、評価・テスト、運用の改善、監査法人対応）、2024年4月からの改訂、つまずきやすいところと進めるうえでの工夫。監査法人でJ-SOX評価を担当した京都の公認会計士が、順を追って解説します。</small></span><i class="go" aria-hidden="true"></i></a><a class="rv" style="--i:1" href="jsox-outsourcing.html"><span><b class="ph">内部統制の支援を、外に頼むとき</b><small>内部統制（J-SOX）の支援を外に頼むか迷っている会社へ。外に頼めることと会社に残ること、頼む前に決めておくこと、頼み方と費用の目安、支援が終わったあとに社内に残すもの。京都の公認会計士が、依頼する側の目線で整理しました。</small></span><i class="go" aria-hidden="true"></i></a><a class="rv" style="--i:2" href="ipo-audit-prep.html"><span><b class="ph">上場準備で、監査を受ける前に</b><small>上場（IPO）を考え始めた会社へ。上場準備の会計監査とショートレビュー、監査を受ける前に確かめておくこと、上場審査から逆算した工程、早い時期にしておくこと。日本公認会計士協会のガイドブックが挙げる指摘の例とあわせて、京都の公認会計士が紹介します。</small></span><i class="go" aria-hidden="true"></i></a><a class="rv" style="--i:3" href="ipo-internal-control.html"><span><b class="ph">上場準備の内部統制は、どこから始めるか</b><small>上場準備の内部統制は、どこから手を付け、いつまでに何を終えればよいのか。京都の公認会計士・税理士 佐藤健司が、段取りの考え方を問いと答えの形で解説します。</small></span><i class="go" aria-hidden="true"></i></a></div><div class="btns rv"><a class="ln" href="sample-jsox.html">現状診断の成果物（説明用サンプル）<i class="go" aria-hidden="true"></i></a></div></section>
 </main>
 <div class="gut"><section class="cta" data-io><div><p class="state rv"><span class="nb">まずは30〜60分の</span><span class="nb">オンライン相談から。</span></p><p class="sm2 rv" style="--i:1">「一度、話を聞いてほしい」という一文で構いません。</p><ul class="trust rv" style="--i:2"><li>初回 30〜60分・オンライン・無料</li><li>通常、3営業日以内にご返信</li><li>最初から最後まで、代表が担当</li></ul></div><a class="ob rv" style="--i:3" href="contact.html">お問い合わせ</a></section></div>
